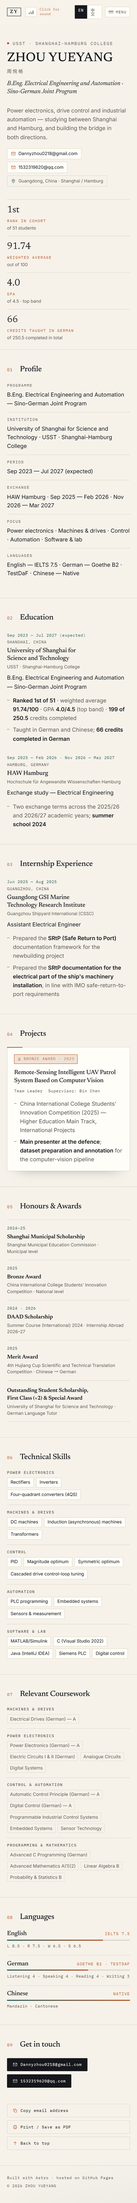
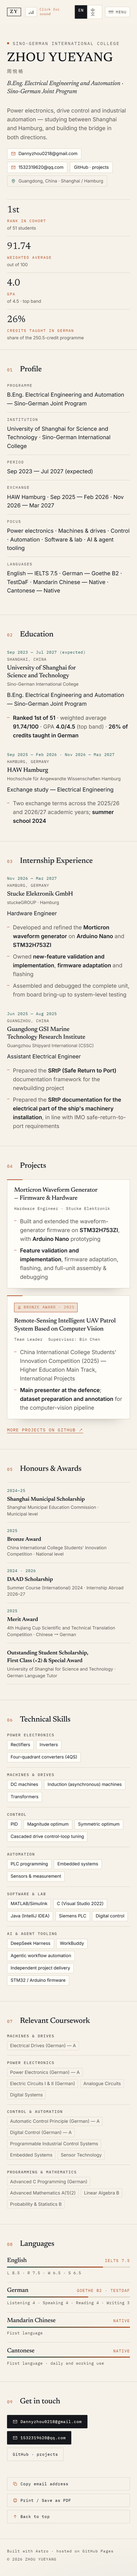
content: fix college name and German-credit share; add Stucke internship and Morticron project; split Cantonese; add AI tooling and GitHub link

diff --git a/src/data/resume.en.ts b/src/data/resume.en.ts
@@ -37,6 +37,7 @@ export const en: Resume = {
       playMusic: 'Play background music',
       pauseMusic: 'Pause background music',
       soundHint: 'Click for sound',
+      moreProjects: 'More projects on GitHub',
       switchLanguage: 'Switch language',
       copyEmail: 'Copy email address',
       copied: 'Copied',
@@ -56,24 +57,25 @@ export const en: Resume = {
     location: 'Guangdong, China · Shanghai / Hamburg',
     phones: [],
     emails: ['Dannyzhou0218@gmail.com', '1532319620@qq.com'],
-    links: [],
+    links: [
+      { label: 'GitHub · projects', href: 'https://github.com/dannyzhou2004' },
+    ],
   },
   stats: [
     { value: '1st', label: 'Rank in cohort', note: 'of 51 students' },
     { value: '91.74', label: 'Weighted average', note: 'out of 100' },
     { value: '4.0', label: 'GPA', note: 'of 4.5 · top band' },
-    { value: '66', label: 'Credits taught in German', note: 'of 250.5 completed in total' },
+    { value: '26%', label: 'Credits taught in German', note: 'share of the 250.5-credit programme' },
   ],
   education: [
     {
       org: 'University of Shanghai for Science and Technology',
-      orgSub: 'USST · Shanghai-Hamburg College',
+      orgSub: 'Sino-German International College',
       place: 'Shanghai, China',
       degree: 'B.Eng. Electrical Engineering and Automation — Sino-German Joint Program',
       period: 'Sep 2023 — Jul 2027 (expected)',
       bullets: [
-        '**Ranked 1st of 51** · weighted average **91.74/100** · GPA **4.0/4.5** (top band) · **199 of 250.5** credits completed',
-        'Taught in German and Chinese; **66 credits completed in German**',
+        '**Ranked 1st of 51** · weighted average **91.74/100** · GPA **4.0/4.5** (top band) · **26% of credits taught in German**',
       ],
     },
     {
@@ -89,6 +91,18 @@ export const en: Resume = {
   ],
   experience: [
     {
+      org: 'Stucke Elektronik GmbH',
+      orgSub: 'stuckeGROUP · Hamburg',
+      place: 'Hamburg, Germany',
+      role: 'Hardware Engineer',
+      period: 'Nov 2026 — Mar 2027',
+      bullets: [
+        'Developed and refined the **Morticron waveform generator** on **Arduino Nano** and **STM32H753ZI**',
+        'Owned **new-feature validation and implementation**, **firmware adaptation** and flashing',
+        'Assembled and debugged the complete unit, from board bring-up to system-level testing',
+      ],
+    },
+    {
       org: 'Guangdong GSI Marine Technology Research Institute',
       orgSub: 'Guangzhou Shipyard International (CSSC)',
       place: 'Guangzhou, China',
@@ -101,6 +115,14 @@ export const en: Resume = {
     },
   ],
   projects: [
+    {
+      title: 'Morticron Waveform Generator — Firmware & Hardware',
+      role: 'Hardware Engineer · Stucke Elektronik',
+      bullets: [
+        'Built and extended the waveform-generator firmware on **STM32H753ZI**, with **Arduino Nano** prototyping',
+        '**Feature validation and implementation**, firmware adaptation, flashing, and full-unit assembly & debugging',
+      ],
+    },
     {
       title: 'Remote-Sensing Intelligent UAV Patrol System Based on Computer Vision',
       role: 'Team Leader',
@@ -149,6 +171,16 @@ export const en: Resume = {
       group: 'Software & lab',
       items: ['MATLAB/Simulink', 'C (Visual Studio 2022)', 'Java (IntelliJ IDEA)', 'Siemens PLC', 'Digital control'],
     },
+    {
+      group: 'AI & agent tooling',
+      items: [
+        'DeepSeek Harness',
+        'WorkBuddy',
+        'Agentic workflow automation',
+        'Independent project delivery',
+        'STM32 / Arduino firmware',
+      ],
+    },
   ],
   coursework: [
     { group: 'Machines & drives', items: ['Electrical Drives (German) — A'] },
@@ -174,6 +206,7 @@ export const en: Resume = {
   languages: [
     { name: 'English', level: 'IELTS 7.5', detail: 'L 8.5 · R 7.5 · W 6.5 · S 6.5', score: 78 },
     { name: 'German', level: 'Goethe B2 · TestDaF', detail: 'Listening 4 · Speaking 4 · Reading 4 · Writing 3', score: 66 },
-    { name: 'Chinese', level: 'Native', detail: 'Mandarin · Cantonese', score: 100 },
+    { name: 'Mandarin Chinese', level: 'Native', detail: 'First language', score: 100 },
+    { name: 'Cantonese', level: 'Native', detail: 'First language · daily and working use', score: 100 },
   ],
 };

diff --git a/src/data/resume.zh.ts b/src/data/resume.zh.ts
@@ -37,6 +37,7 @@ export const zh: Resume = {
       playMusic: '播放背景音乐',
       pauseMusic: '暂停背景音乐',
       soundHint: '点击开启声音',
+      moreProjects: '在 GitHub 查看全部项目',
       switchLanguage: '切换语言',
       copyEmail: '复制邮箱',
       copied: '已复制',
@@ -56,24 +57,25 @@ export const zh: Resume = {
     location: '中国广东 · 上海 / 汉堡',
     phones: [],
     emails: ['Dannyzhou0218@gmail.com', '1532319620@qq.com'],
-    links: [],
+    links: [
+      { label: 'GitHub 项目', href: 'https://github.com/dannyzhou2004' },
+    ],
   },
   stats: [
     { value: '第 1 名', label: '专业排名', note: '共 51 人' },
     { value: '91.74', label: '加权平均分', note: '满分 100' },
     { value: '4.0', label: 'GPA', note: '满分 4.5 · 最高档' },
-    { value: '66', label: '德语授课学分', note: '累计已修 250.5 学分' },
+    { value: '26%', label: '德语授课学分占比', note: '占 250.5 总学分' },
   ],
   education: [
     {
       org: '上海理工大学（USST）',
-      orgSub: '上海-汉堡学院',
+      orgSub: '中德国际学院',
       place: '上海，中国',
       degree: '电气工程及其自动化 工学学士 · 中德合作项目',
       period: '2023.09 — 2027.07（预计）',
       bullets: [
-        '**专业排名 1/51** · 加权平均分 **91.74/100** · GPA **4.0/4.5**（最高档）· 已修 **199/250.5** 学分',
-        '德语、中文双语授课；**已完成 66 个德语授课学分**',
+        '**专业排名 1/51** · 加权平均分 **91.74/100** · GPA **4.0/4.5**（最高档）· **德语授课学分占总学分 26%**',
       ],
     },
     {
@@ -89,6 +91,18 @@ export const zh: Resume = {
   ],
   experience: [
     {
+      org: 'Stucke Elektronik GmbH',
+      orgSub: 'stuckeGROUP · 汉堡',
+      place: '汉堡，德国',
+      role: '硬件工程师',
+      period: '2026.11 — 2027.03',
+      bullets: [
+        '基于 **Arduino Nano** 与 **STM32H753ZI** 开发并完善 **Morticron 波形发生器**项目',
+        '负责**新功能验证与添加**、**固件适配**与烧录',
+        '完成整机组装与调试，覆盖从板级 bring-up 到系统级测试',
+      ],
+    },
+    {
       org: '广东广船国际海洋科技研究院',
       orgSub: '广州船舶国际（CSSC）',
       place: '广州，中国',
@@ -101,6 +115,14 @@ export const zh: Resume = {
     },
   ],
   projects: [
+    {
+      title: 'Morticron 波形发生器 — 固件与硬件',
+      role: '硬件工程师 · Stucke Elektronik',
+      bullets: [
+        '在 **STM32H753ZI** 上开发并扩展波形发生器固件，并用 **Arduino Nano** 做原型验证',
+        '**新功能验证与实现**、固件适配、烧录，以及整机组装与调试',
+      ],
+    },
     {
       title: '基于计算机视觉的遥感智能无人机巡检系统',
       role: '团队负责人',
@@ -149,6 +171,10 @@ export const zh: Resume = {
       group: '软件与实验',
       items: ['MATLAB/Simulink', 'C 语言（Visual Studio 2022）', 'Java（IntelliJ IDEA）', '西门子 PLC', '数字控制'],
     },
+    {
+      group: 'AI 与 Agent 工具',
+      items: ['DeepSeek Harness', 'WorkBuddy', 'Agent 工作流自动化', '独立项目开发', 'STM32 / Arduino 固件'],
+    },
   ],
   coursework: [
     { group: '电机与拖动', items: ['电力拖动（德语授课）— A'] },
@@ -174,6 +200,7 @@ export const zh: Resume = {
   languages: [
     { name: '英语', level: 'IELTS 7.5', detail: '听力 8.5 · 阅读 7.5 · 写作 6.5 · 口语 6.5', score: 78 },
     { name: '德语', level: '歌德 B2 · TestDaF', detail: '听力 4 · 口语 4 · 阅读 4 · 写作 3', score: 66 },
-    { name: '中文', level: '母语', detail: '普通话 · 粤语', score: 100 },
+    { name: '普通话', level: '母语', detail: '中文母语', score: 100 },
+    { name: '粤语', level: '母语', detail: '母语 · 日常与工作交流', score: 100 },
   ],
 };

diff --git a/src/styles/global.css b/src/styles/global.css
@@ -813,6 +813,20 @@ html[lang^='zh'] .stat-value {
   gap: clamp(1.25rem, 2.5vw, 1.75rem);
 }
 
+.projects-more {
+  margin-top: clamp(1.25rem, 2.5vw, 1.75rem);
+  font-family: var(--font-mono);
+  font-size: var(--step--1);
+  letter-spacing: 0.08em;
+  text-transform: uppercase;
+}
+
+.projects-more a {
+  color: var(--copper);
+  border-bottom: 1px solid currentColor;
+  padding-bottom: 1px;
+}
+
 .project {
   position: relative;
   padding: clamp(1.2rem, 2.8vw, 2.1rem);

diff --git a/src/data/types.ts b/src/data/types.ts
@@ -122,6 +122,8 @@ export interface UiText {
     pauseMusic: string;
     /** Small hint shown when the browser blocked audible autoplay. */
     soundHint: string;
+    /** Footer link under the projects list: "more projects on GitHub". */
+    moreProjects: string;
     switchLanguage: string;
     copyEmail: string;
     copied: string;
